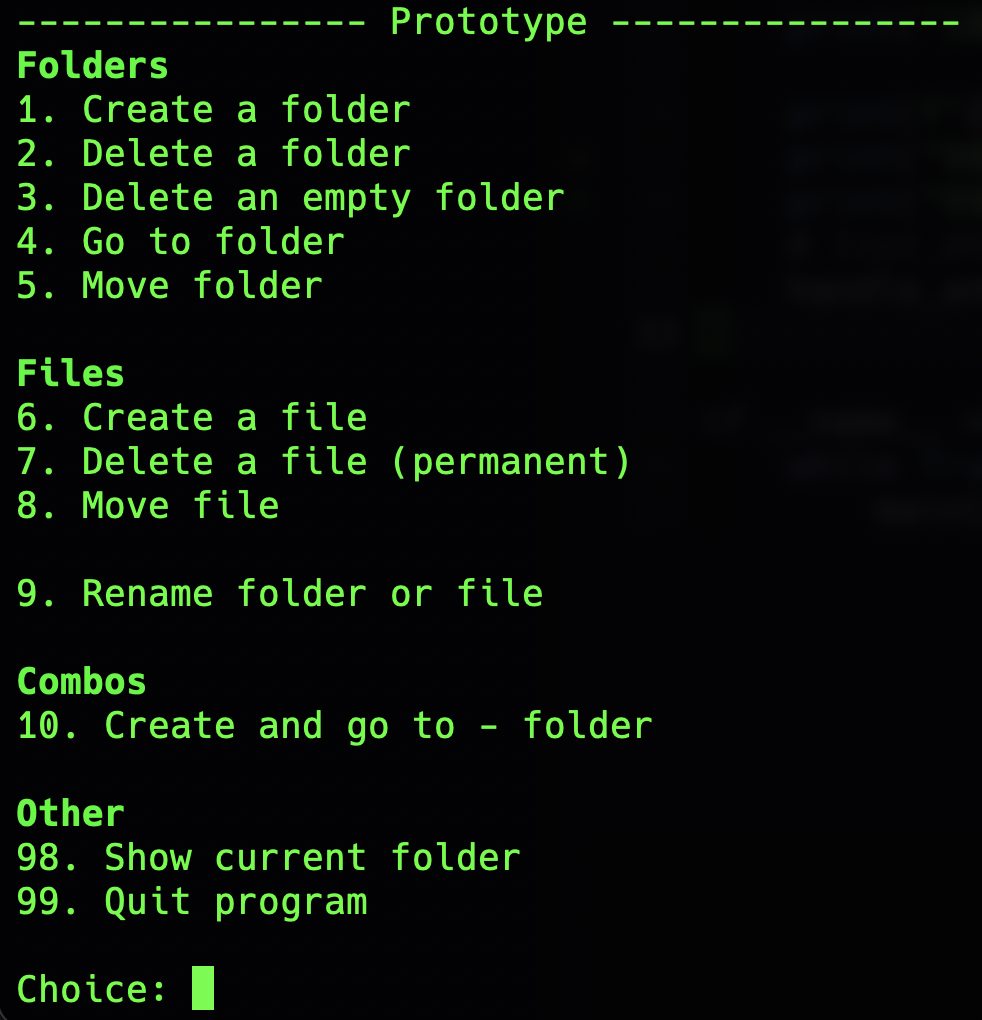
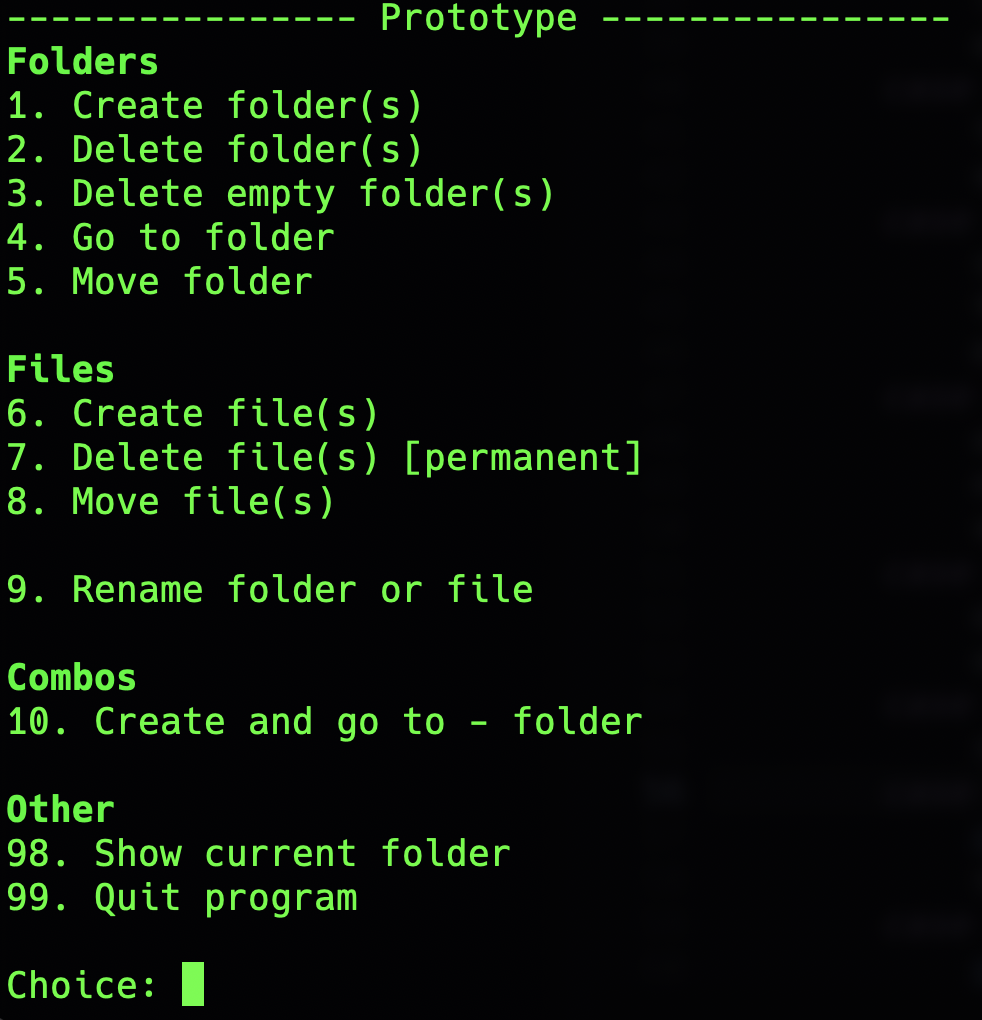
style: si en eller flere mapper og filer kan legges og fjernes med en gang og si flere filer kan bytte plass til en mappe

diff --git a/modules/handler.py b/modules/handler.py
@@ -19,13 +19,13 @@ def handle_answers() -> None:
 
     match choice:
         case 1:
-            dir_name: str = input("Folder name to add: ")
+            dir_name: str = input("Folder name(s) to add (separated by space): ")
             create_dir(dir_name)
         case 2:
-            dir_name: str = input("Folder name to delete: ")
+            dir_name: str = input("Folder name(s) to delete (separated by space): ")
             remove_dir(dir_name)
         case 3:
-            dir_name: str = input("Empty folder name to delete: ")
+            dir_name: str = input("Empty folder name(s) to delete (separated by space): ")
             remove_empty_dir(dir_name)
         case 4:
             existing_dir: str = input("Existing folder name: ")
@@ -35,13 +35,13 @@ def handle_answers() -> None:
             target: str = input("Folder name to move to: ")
             move_dir(source, target)
         case 6:
-            file_name: str = input("File name to add: ")
+            file_name: str = input("File name(s) to add (separated by space): ")
             create_file(file_name)
         case 7:
-            file_name: str = input("File name to delete: ")
+            file_name: str = input("File name(s) to delete (separated by space): ")
             remove_file(file_name)
         case 8:
-            source: str = input("File name to move: ")
+            source: str = input("File name(s) to move (separated by space): ")
             target: str = input("Folder name to move file to: ")
             move_file(source, target)
         case 9:

diff --git a/main.py b/main.py
@@ -9,16 +9,16 @@ def main() -> None:
 
     print(f"{bold}Folders{end_bold}") 
 
-    print("1. Create a folder")
-    print("2. Delete a folder")
-    print("3. Delete an empty folder")
+    print("1. Create folder(s)")
+    print("2. Delete folder(s)")
+    print("3. Delete empty folder(s)")
     print("4. Go to folder")
     print("5. Move folder\n")
 
     print(f"{bold}Files{end_bold}") 
-    print("6. Create a file")
-    print("7. Delete a file (permanent)")
-    print("8. Move file\n")
+    print("6. Create file(s)")
+    print("7. Delete file(s) [permanent]")
+    print("8. Move file(s)\n")
 
     print("9. Rename folder or file\n")
 
